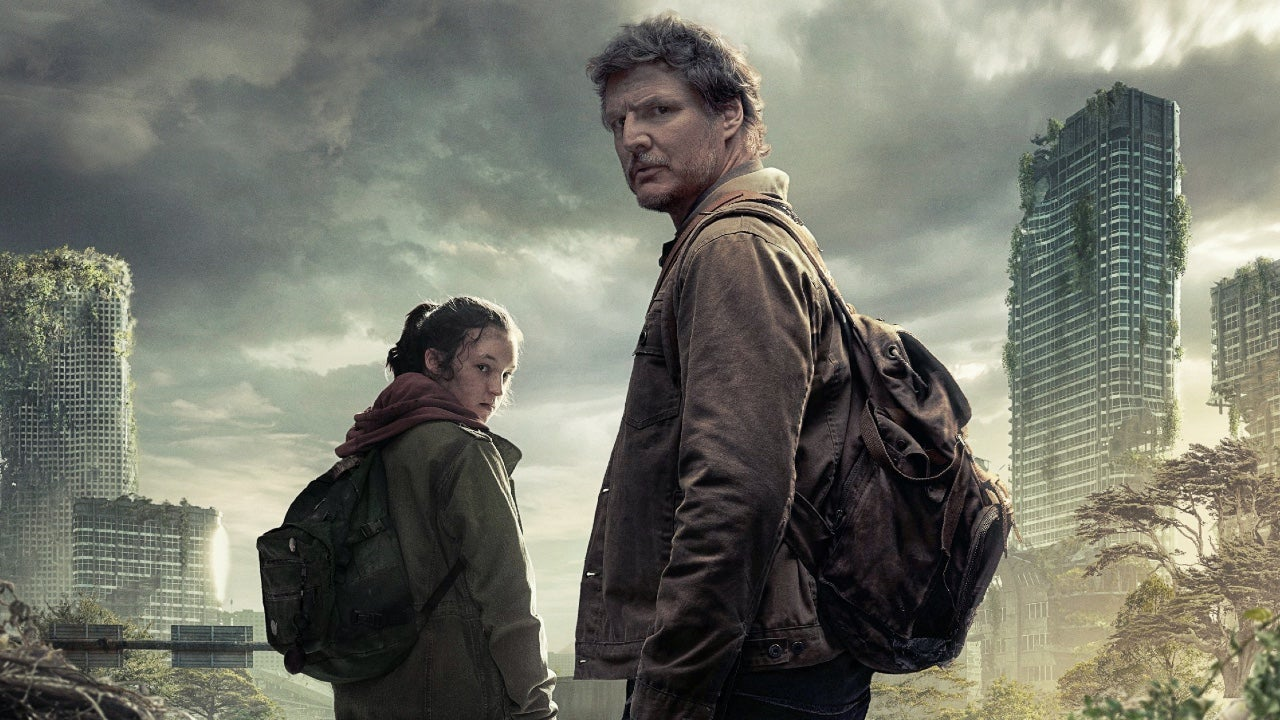
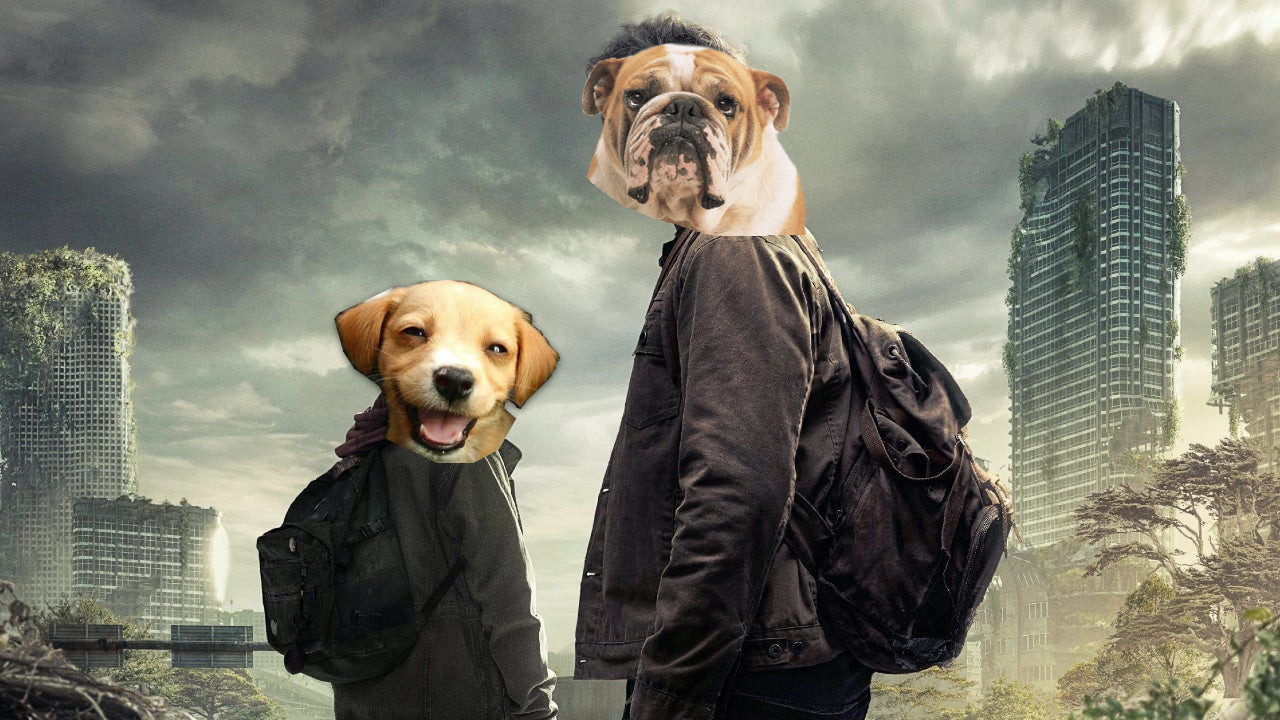
Major update

Changed region(s): [[0.4375, 0.0611, 0.6562, 0.3361], [0.25, 0.3667, 0.4375, 0.6417]]

diff --git a/react-film-card/src/components/FilmCard/FilmCard.js b/react-film-card/src/components/FilmCard/FilmCard.js
@@ -10,7 +10,7 @@ class FilmCard extends React.Component {
                         <svg className="play-button" xmlns="http://www.w3.org/2000/svg" viewBox="0 0 512 512"><path d="M188.3 147.1C195.8 142.8 205.1 142.1 212.5 147.5L356.5 235.5C363.6 239.9 368 247.6 368 256C368 264.4 363.6 272.1 356.5 276.5L212.5 364.5C205.1 369 195.8 369.2 188.3 364.9C180.7 360.7 176 352.7 176 344V167.1C176 159.3 180.7 151.3 188.3 147.1V147.1zM512 256C512 397.4 397.4 512 256 512C114.6 512 0 397.4 0 256C0 114.6 114.6 0 256 0C397.4 0 512 114.6 512 256zM256 48C141.1 48 48 141.1 48 256C48 370.9 141.1 464 256 464C370.9 464 464 370.9 464 256C464 141.1 370.9 48 256 48z"/></svg>
                         <div className="film-info">
                             <h3 className="film-title">
-                                The Last Of Us
+                                Surviving Woof!
                             </h3>
                             <p className="film-genre">
                                 Drama / Western
